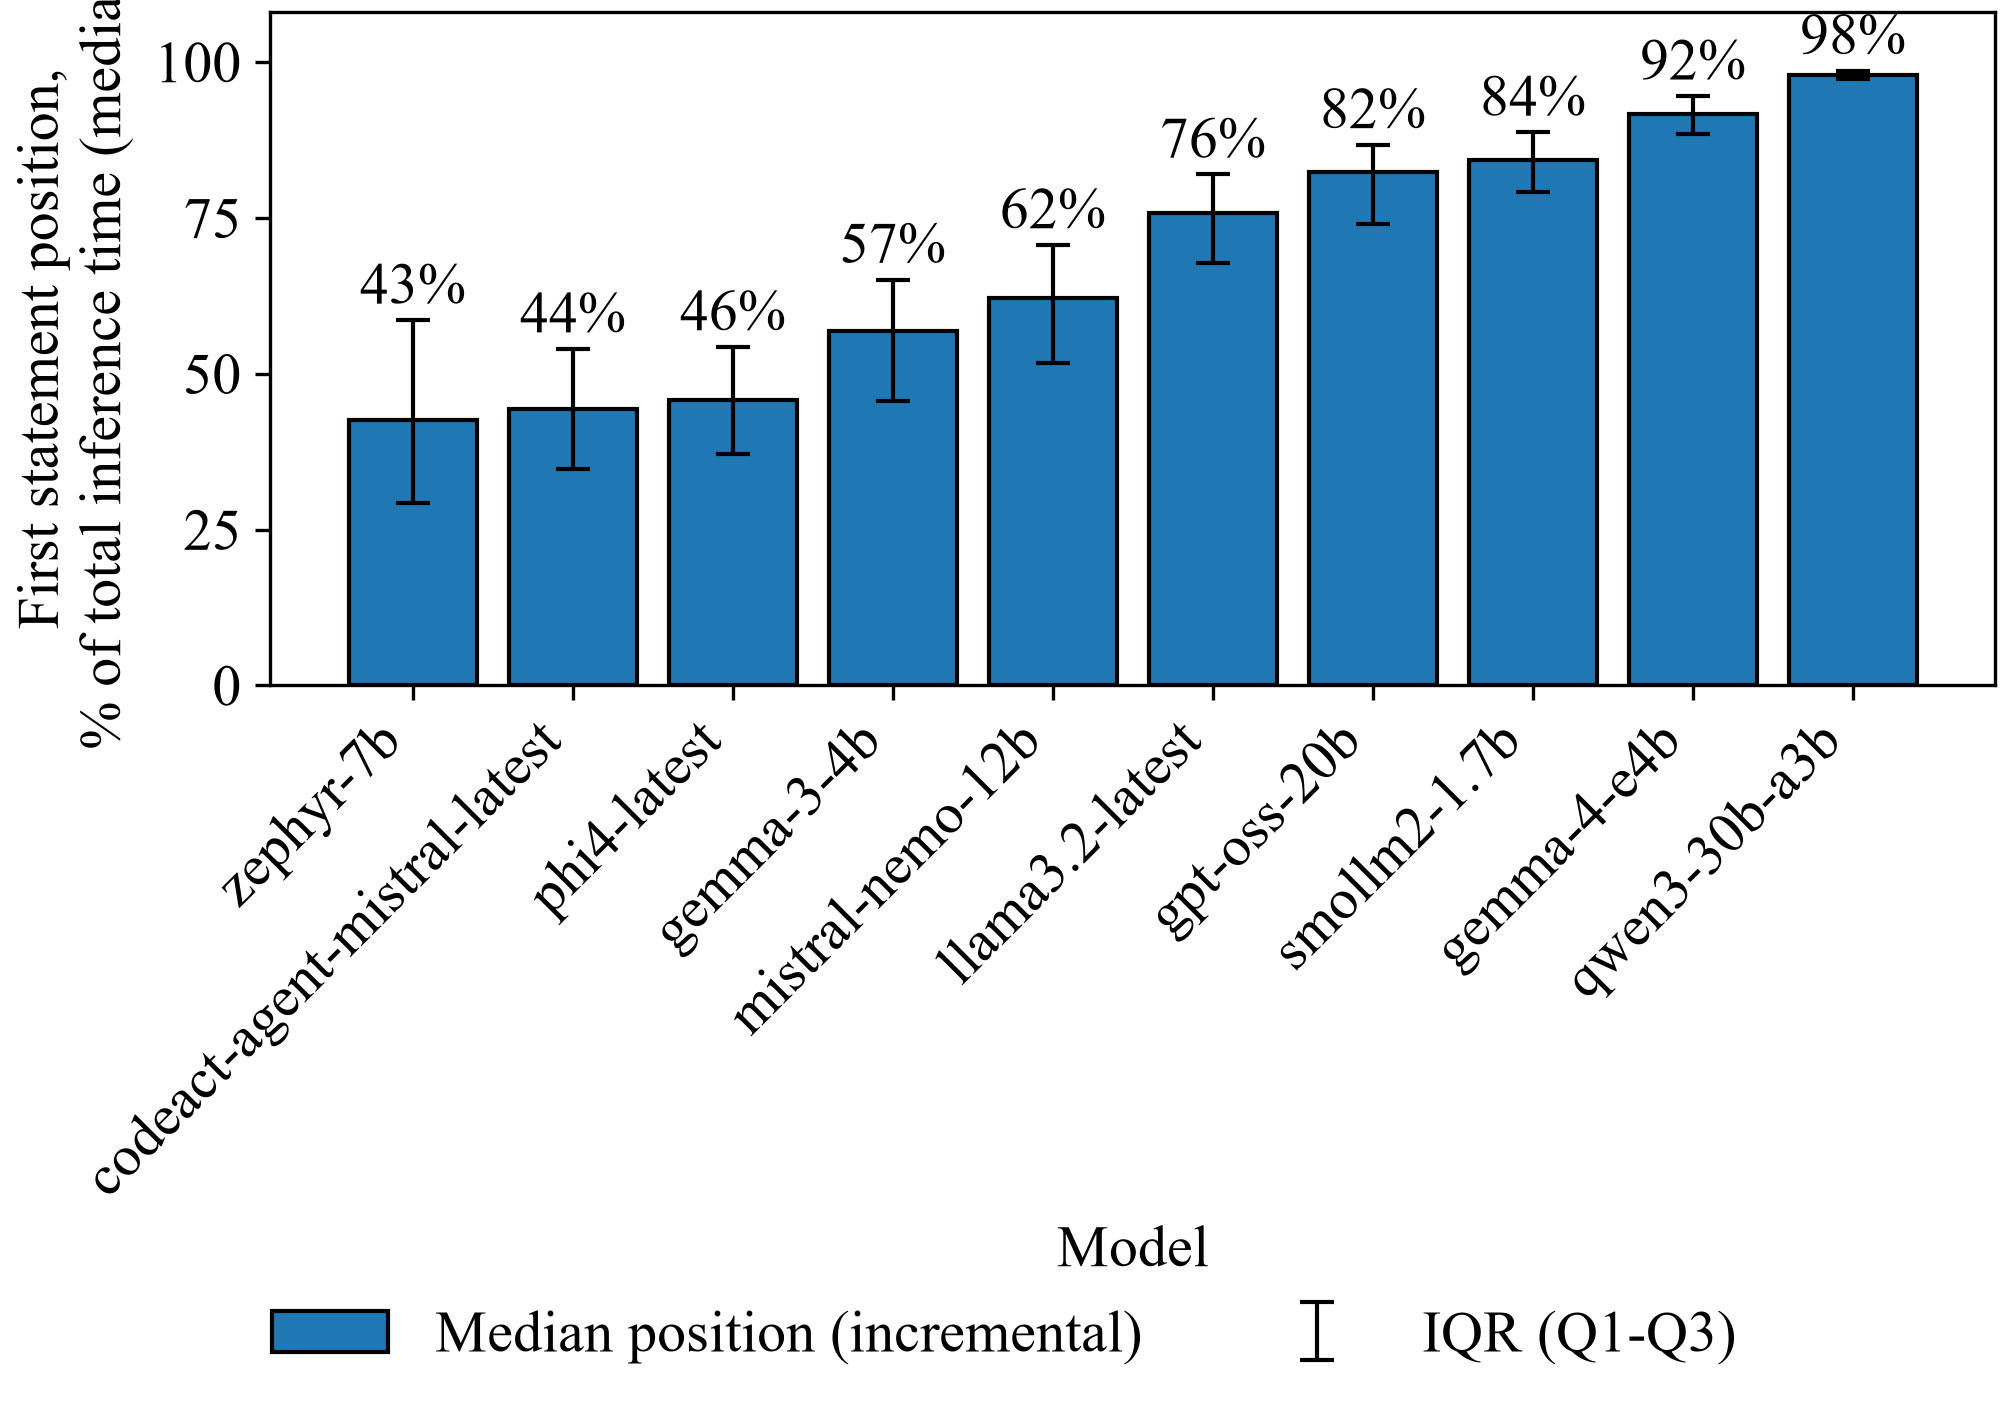
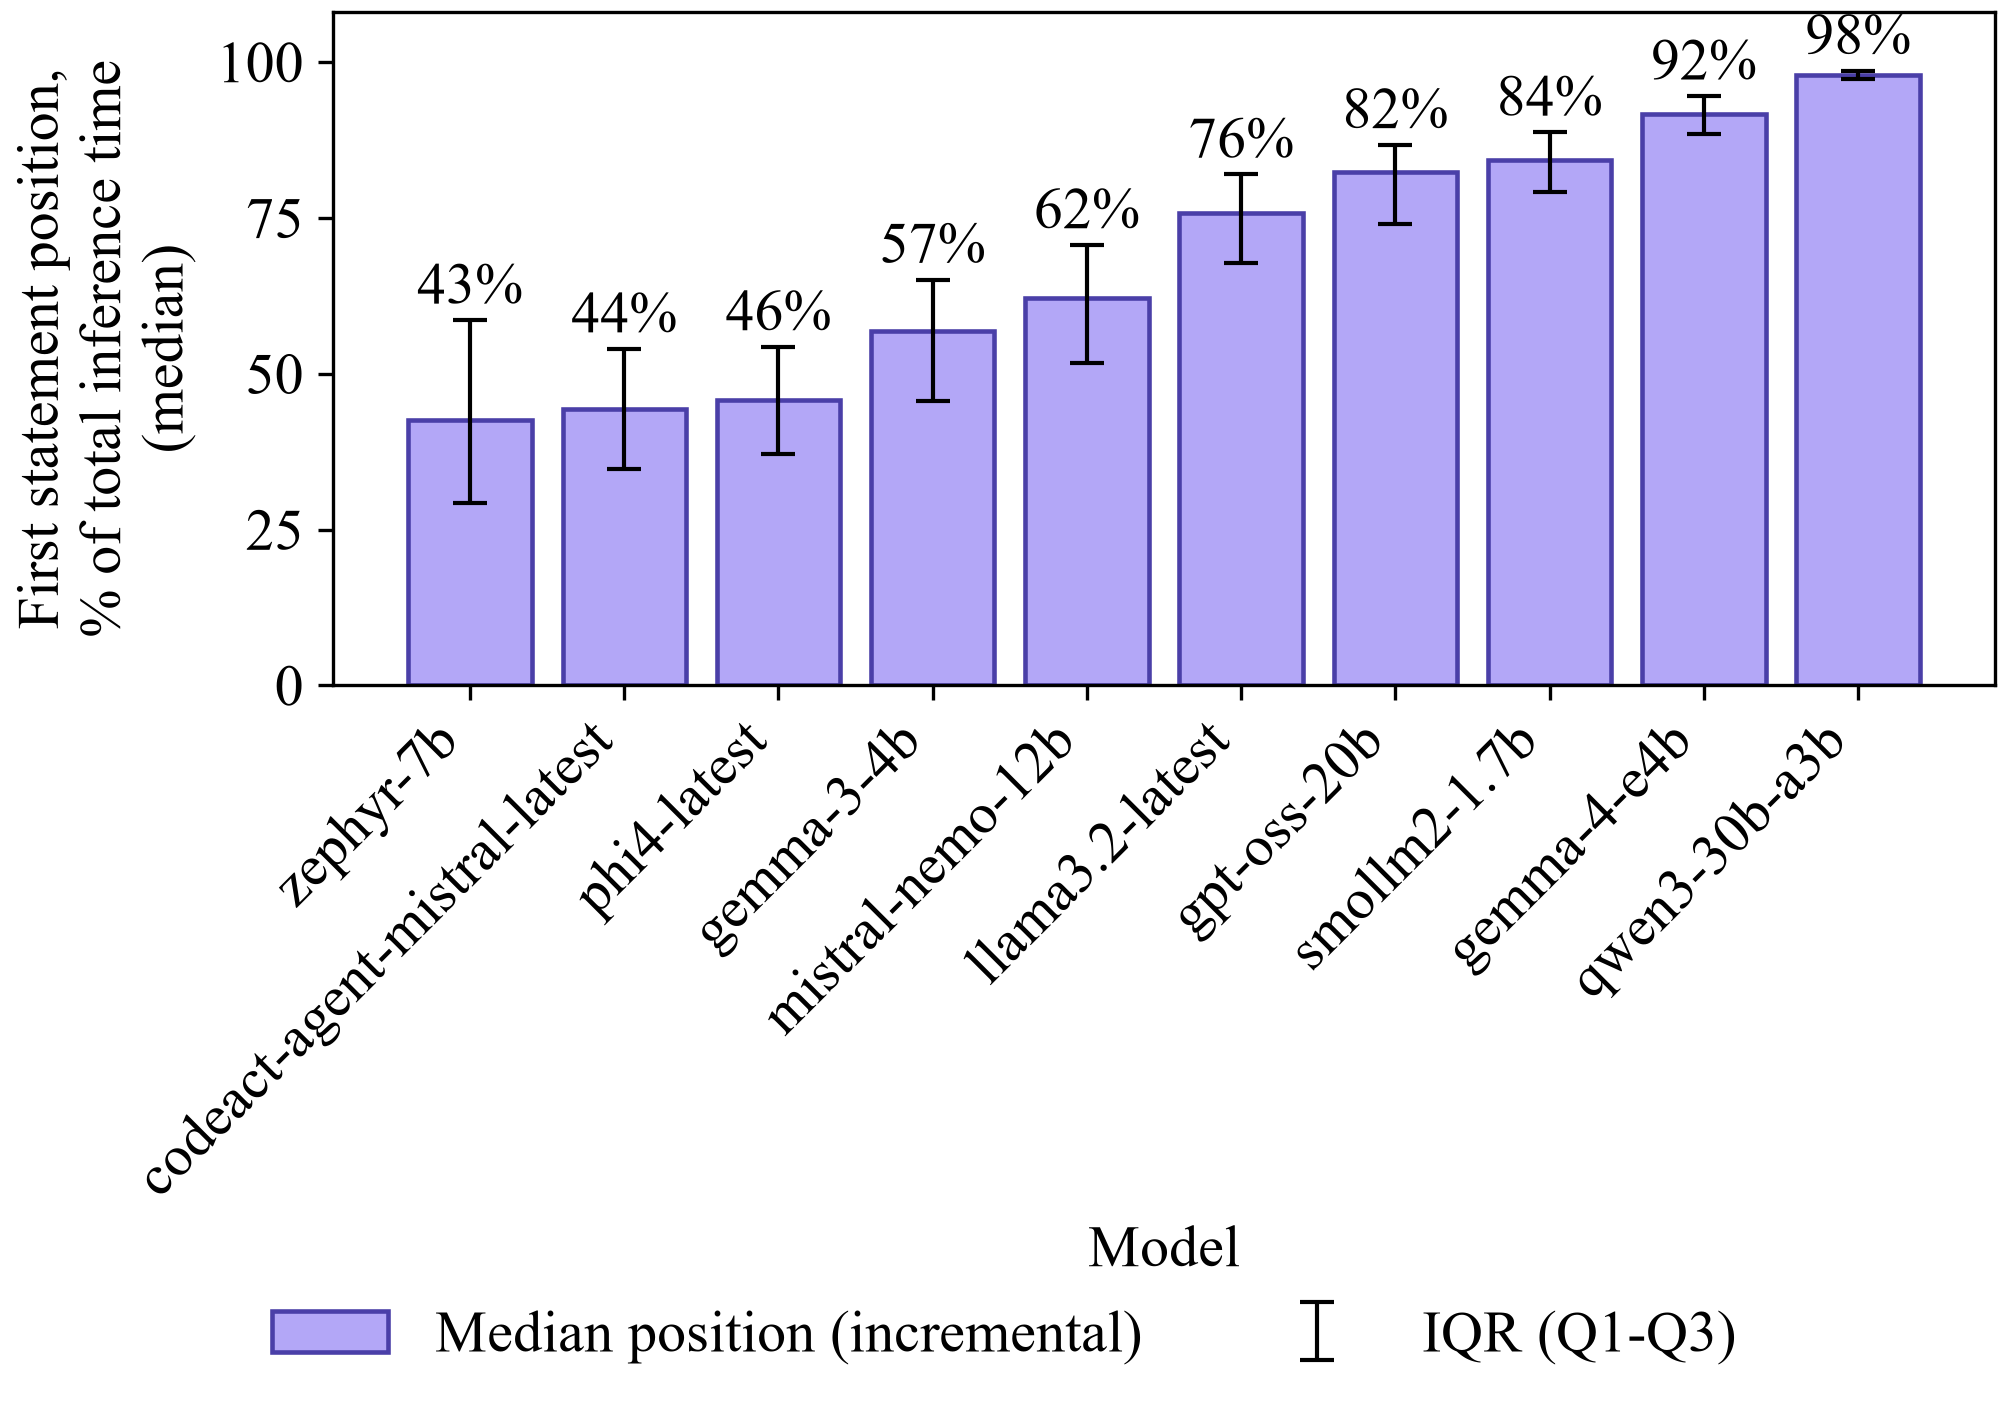
script update

diff --git a/misc/mbpp/scripts/build_artifacts.py b/misc/mbpp/scripts/build_artifacts.py
@@ -32,7 +32,14 @@ MM_PER_IN = 25.4
 PAGE_WIDTH_MM = 170.0  # standard figure width; every figure shares it
 
 STRATEGIES = ["incremental", "sequential"]
-PALETTE = {"incremental": "tab:blue", "sequential": "tab:orange"}
+
+COLOR_INFERENCE = "#B3A7F7"  # light periwinkle -- LLM inference (token generation)
+COLOR_EXECUTION = "#FFC488"  # light apricot -- code execution
+COLOR_OUTLINE = "#4A3FA8"  # indigo -- 1.1pt stroke on every bar
+COLOR_INK = "#000000"  # black -- text, leader lines, arrows, axes
+BAR_OUTLINE_WIDTH = 1.1
+
+PALETTE = {"incremental": COLOR_INFERENCE, "sequential": COLOR_EXECUTION}
 
 
 def _round_or_na(value: float, decimals: int) -> object:
@@ -110,6 +117,12 @@ def _configure_matplotlib() -> None:
             "savefig.facecolor": "white",
             "axes.facecolor": "white",
             "savefig.transparent": False,
+            "text.color": COLOR_INK,
+            "axes.labelcolor": COLOR_INK,
+            "axes.edgecolor": COLOR_INK,
+            "xtick.color": COLOR_INK,
+            "ytick.color": COLOR_INK,
+            "legend.labelcolor": COLOR_INK,
         }
     )
 
@@ -526,55 +539,161 @@ def build_significance_table(
     return table
 
 
-def _paired_token_chunks(df: pd.DataFrame, model_label: str) -> pd.DataFrame:
-    """Pair per-task `ClientCompletionChunks` and the incremental arm's `EarlyExit` flag.
+def _estimate_missing_output_tokens(df: pd.DataFrame) -> pd.DataFrame:
+    """Back-fill token counts for incremental runs that aborted mid-stream.
 
-    `ClientCompletionChunks` (not `OutputTokens`) is what token-savings has to
-    be computed from: the provider's final usage chunk never arrives when the
-    stream is aborted mid-block, so every early-exited row has `OutputTokens`
-    `NaN` -- exactly the rows this comparison needs.
+    An incremental run that hits `EarlyExit` breaks out of the SSE loop
+    (`execution.py`'s `if driver.has_error: ... break`) before the
+    provider's trailing usage-only chunk arrives, so `InputTokens`/
+    `OutputTokens`/`TotalTokens` are `NaN` for that row -- confirmed
+    empirically to be the *sole* driver of every incremental/sequential
+    token-total mismatch (per-row values agree exactly on every row where
+    both strategies have one). Timeout ("stalled") rows are excluded on
+    both sides: a cancelled stream has no stable tokens-per-chunk rate to
+    extrapolate from, on either arm.
+
+    For each qualifying row, an estimate is derived from the paired
+    sequential run at the same `DatasetRow` (which drains its stream to
+    completion, so it almost never misses usage):
+
+      - `InputTokens`: sequential's own value, taken verbatim. Not really a
+        *statistical* estimate -- input tokens are confirmed identical
+        between strategies for the same row whenever both are measured, so
+        this is a safe direct substitution rather than an extrapolation.
+      - `OutputTokens`: sequential's own tokens-per-chunk rate
+        (`OutputTokens / ClientCompletionChunks`) applied to
+        *incremental's own* `ClientCompletionChunks` -- the one usage-like
+        figure incremental always has, since it's counted client-side off
+        the delta stream rather than read from the provider's final chunk.
+      - `TotalTokens`: the sum of the two estimates above.
 
     Args:
         df: Combined result rows, as returned by `load_results()`.
+
+    Returns:
+        A copy of `df` with `InputTokens`/`OutputTokens`/`TotalTokens`
+        back-filled for qualifying rows, plus a new boolean
+        `TokensEstimated` column flagging exactly which rows were filled
+        this way (`False` everywhere else, including every sequential row).
+    """
+    out = df.copy()
+    out["TokensEstimated"] = False
+
+    sequential = out.loc[out["Strategy"] == "sequential"].set_index(
+        ["ModelLabel", "DatasetRow"]
+    )
+
+    candidates = out.index[
+        (out["Strategy"] == "incremental")
+        & out["EarlyExit"]
+        & ~out["HasTimedOut"]
+        & out["OutputTokens"].isna()
+    ]
+
+    for idx in candidates:
+        key = (out.at[idx, "ModelLabel"], out.at[idx, "DatasetRow"])
+        if key not in sequential.index:
+            continue
+        seq_row = sequential.loc[key]
+        if (
+            seq_row["HasTimedOut"]
+            or pd.isna(seq_row["OutputTokens"])
+            or not seq_row["ClientCompletionChunks"]
+        ):
+            continue
+        rate = seq_row["OutputTokens"] / seq_row["ClientCompletionChunks"]
+        est_input = seq_row["InputTokens"]
+        est_output = out.at[idx, "ClientCompletionChunks"] * rate
+        out.at[idx, "InputTokens"] = est_input
+        out.at[idx, "OutputTokens"] = est_output
+        out.at[idx, "TotalTokens"] = est_input + est_output
+        out.at[idx, "TokensEstimated"] = True
+
+    return out
+
+
+def _paired_token_rows(df: pd.DataFrame) -> pd.DataFrame:
+    """Restrict to (Model, DatasetRow) pairs where both strategies have token counts.
+
+    A pair can end up with just one side missing `InputTokens`/`OutputTokens`
+    for more than one reason -- a timeout on either arm (which never gets a
+    usage chunk on the side that stalled), or a non-timeout harness/exception
+    path that also left usage uncaptured but falls outside
+    `_estimate_missing_output_tokens()`'s early-exit-only scope (e.g. an
+    error surfacing from `StreamDriver.afinish()` after the main loop already
+    ran to completion without ever setting `EarlyExit`). Whatever the cause,
+    keeping the *other* side's real value would let it contribute to that
+    strategy's own marginal sum with no counterpart on the other strategy --
+    breaking the "input tokens are identical between strategies for the same
+    task" invariant this dataset otherwise guarantees, and silently skewing
+    one strategy's totals relative to the other's. So an incomplete pair is
+    dropped for *both* strategies, not patched on just the side that's short.
+
+    Args:
+        df: Combined result rows, already run through
+            `_estimate_missing_output_tokens()`.
+
+    Returns:
+        A copy of `df` containing only rows for (`ModelLabel`, `DatasetRow`)
+        pairs where both strategies have a non-null `InputTokens` and
+        `OutputTokens` -- real or estimated.
+    """
+    complete = df["InputTokens"].notna() & df["OutputTokens"].notna()
+    complete_pair = complete.groupby(
+        [df["ModelLabel"], df["DatasetRow"]]
+    ).transform("all")
+    return df.loc[complete_pair].copy()
+
+
+def _paired_output_tokens(df: pd.DataFrame, model_label: str) -> pd.DataFrame:
+    """Pair per-task `OutputTokens` (post-estimation) and the incremental arm's flags.
+
+    Args:
+        df: Combined result rows, already run through
+            `_estimate_missing_output_tokens()`.
         model_label: The `ModelLabel` to restrict to.
 
     Returns:
-        One row per `DatasetRow` with `incremental_chunks`,
-        `sequential_chunks`, and `early_exit`, for tasks where both
-        strategies ran.
+        One row per `DatasetRow` with `incremental_tokens`,
+        `sequential_tokens`, `early_exit`, and `estimated` (whether
+        incremental's value for that row was back-filled rather than
+        measured), restricted to `_paired_token_rows()`'s complete-pair
+        subset -- both strategies have a value, real or estimated, and
+        neither timed out.
     """
-    subset = df.loc[df["ModelLabel"] == model_label]
-    chunks = subset.pivot_table(
-        index="DatasetRow",
-        columns="Strategy",
-        values="ClientCompletionChunks",
-        aggfunc="first",
+    subset = _paired_token_rows(df.loc[df["ModelLabel"] == model_label])
+    tokens = subset.pivot_table(
+        index="DatasetRow", columns="Strategy", values="OutputTokens", aggfunc="first"
     ).reindex(columns=["incremental", "sequential"])
-    chunks = chunks.dropna(subset=["incremental", "sequential"])
-    chunks.columns = ["incremental_chunks", "sequential_chunks"]
+    tokens.columns = ["incremental_tokens", "sequential_tokens"]
 
-    early_exit = subset.loc[subset["Strategy"] == "incremental"].set_index(
+    incremental_rows = subset.loc[subset["Strategy"] == "incremental"].set_index(
         "DatasetRow"
-    )["EarlyExit"]
-    chunks["early_exit"] = chunks.index.map(early_exit).fillna(False)
-    return chunks
+    )
+    tokens["early_exit"] = tokens.index.map(incremental_rows["EarlyExit"]).fillna(
+        False
+    )
+    tokens["estimated"] = tokens.index.map(
+        incremental_rows["TokensEstimated"]
+    ).fillna(False)
+    return tokens
 
 
-def _savings_pct(paired: pd.DataFrame) -> float:
-    """Compute the % of output tokens (by `ClientCompletionChunks`) incremental saved.
+def _token_savings_pct(paired: pd.DataFrame) -> float:
+    """Compute the % of output tokens incremental saved, from paired real/estimated counts.
 
     Args:
-        paired: Rows shaped like `_paired_token_chunks()`'s output, or a
+        paired: Rows shaped like `_paired_output_tokens()`'s output, or a
             subset of them (e.g. restricted to early-exited tasks).
 
     Returns:
         `(sequential_total - incremental_total) / sequential_total * 100`, or
         `NaN` if `sequential_total` is 0 -- nothing to compare savings against.
     """
-    sequential_total = paired["sequential_chunks"].sum()
+    sequential_total = paired["sequential_tokens"].sum()
     if sequential_total == 0:
         return float("nan")
-    incremental_total = paired["incremental_chunks"].sum()
+    incremental_total = paired["incremental_tokens"].sum()
     return (sequential_total - incremental_total) / sequential_total * 100
 
 
@@ -589,11 +708,41 @@ def build_token_usage(
     rather than collapsing to 0, which would be indistinguishable from a
     model that demonstrably used no extended thinking.
 
-    The sibling savings table reports the % of output tokens (by
-    `ClientCompletionChunks`, not `OutputTokens` -- see `_paired_token_chunks`)
-    the incremental arm saved by aborting early, both overall and restricted
-    to just the runs that actually aborted, since the whole-set number is
-    diluted by runs that had no tail to skip.
+    Every aggregate here is computed over
+    `_paired_token_rows(_estimate_missing_output_tokens(df))`, not `df`
+    itself, for two reasons stacked on top of each other:
+
+      - An incremental run that aborted mid-stream (`EarlyExit`) never
+        received the provider's usage chunk, so its raw `InputTokens`/
+        `OutputTokens`/`TotalTokens` are `NaN` -- `_estimate_missing_output_tokens`
+        back-fills those from the paired sequential run.
+      - Some rows still end up missing a value on just one side even after
+        that (a timeout, or a non-timeout harness error outside the
+        early-exit-only estimate) -- `_paired_token_rows` drops *both*
+        strategies' rows for any such (Model, DatasetRow) pair, rather than
+        letting the complete side's real value contribute to its own
+        strategy's sum with no counterpart on the other strategy. Without
+        this, `Input Tokens Sum` (which must be identical between strategies
+        for the same task) can end up mismatched between Incremental and
+        Sequential purely because of which rows each one happened to drop.
+
+    So `N` reflects the paired, complete-data row count for that (Model,
+    Strategy) -- identical between Incremental and Sequential for a given
+    model, but possibly below 113 when a model had any unrecoverable rows on
+    either arm -- not the raw per-strategy row count. Both output tables are
+    therefore *estimated* token counts wherever a model had any early exits,
+    over a possibly-reduced row set -- not pure, complete API-reported usage
+    -- which is why they're written under `..._estimated.csv` names and
+    carry an `Estimated Rows`/`Estimated Runs` column reporting how many of
+    the paired rows were filled in rather than measured. `ReasoningTokens`
+    is left alone (never estimated, never used to filter pairs): there's no
+    equivalent rate to extrapolate it from.
+
+    The sibling savings table reports the % of output tokens the incremental
+    arm saved by aborting early (using the post-estimation `OutputTokens`,
+    via `_paired_output_tokens`/`_token_savings_pct`), both overall and
+    restricted to just the runs that actually aborted, since the whole-set
+    number is diluted by runs that had no tail to skip.
 
     Args:
         df: Combined result rows, as returned by `load_results()`.
@@ -604,9 +753,13 @@ def build_token_usage(
         (`ModelLabel`, `Strategy`) for `token_usage`, one row per
         `ModelLabel` for `token_saving`.
     """
-    usage = df.groupby(["ModelLabel", "Strategy"], sort=False).agg(
+    estimated = _estimate_missing_output_tokens(df)
+    paired_rows = _paired_token_rows(estimated)
+
+    usage = paired_rows.groupby(["ModelLabel", "Strategy"], sort=False).agg(
         Count=("ErrorOccurred", "size"),
         EarlyExits=("EarlyExit", "sum"),
+        EstimatedRows=("TokensEstimated", "sum"),
         InputTokens_Mean=("InputTokens", "mean"),
         InputTokens_Sum=("InputTokens", "sum"),
         OutputTokens_Mean=("OutputTokens", "mean"),
@@ -633,12 +786,13 @@ def build_token_usage(
             "ModelLabel": "Model",
             "Count": "N",
             "EarlyExits": "Early Exits",
+            "EstimatedRows": "Estimated Rows",
             "InputTokens_Mean": "Input Tokens Mean",
             "InputTokens_Sum": "Input Tokens Sum",
-            "OutputTokens_Mean": "Output Tokens Mean",
-            "OutputTokens_Sum": "Output Tokens Sum",
-            "TotalTokens_Mean": "Total Tokens Mean",
-            "TotalTokens_Sum": "Total Tokens Sum",
+            "OutputTokens_Mean": "Output Tokens Mean (Est.)",
+            "OutputTokens_Sum": "Output Tokens Sum (Est.)",
+            "TotalTokens_Mean": "Total Tokens Mean (Est.)",
+            "TotalTokens_Sum": "Total Tokens Sum (Est.)",
             "ReasoningTokens_Mean": "Reasoning Tokens Mean",
             "ReasoningTokens_Sum": "Reasoning Tokens Sum",
         }
@@ -646,15 +800,16 @@ def build_token_usage(
 
     savings_rows: list[dict[str, object]] = []
     for model_label in df["ModelLabel"].unique():
-        paired = _paired_token_chunks(df, model_label)
+        paired = _paired_output_tokens(paired_rows, model_label)
         aborted = paired[paired["early_exit"]]
         savings_rows.append(
             {
                 "ModelLabel": model_label,
                 "PairedRuns": len(paired),
                 "AbortedRuns": len(aborted),
-                "OverallSavingsPct": _savings_pct(paired),
-                "AbortedSavingsPct": _savings_pct(aborted)
+                "EstimatedRuns": int(paired["estimated"].sum()),
+                "OverallSavingsPct": _token_savings_pct(paired),
+                "AbortedSavingsPct": _token_savings_pct(aborted)
                 if len(aborted)
                 else float("nan"),
             }
@@ -671,14 +826,15 @@ def build_token_usage(
             "ModelLabel": "Model",
             "PairedRuns": "Paired Runs",
             "AbortedRuns": "Aborted Runs",
-            "OverallSavingsPct": "Overall Savings (%)",
-            "AbortedSavingsPct": "Aborted-Run Savings (%)",
+            "EstimatedRuns": "Estimated Runs",
+            "OverallSavingsPct": "Overall Savings (%, Est.)",
+            "AbortedSavingsPct": "Aborted-Run Savings (%, Est.)",
         }
     )
 
     tables_dir.mkdir(parents=True, exist_ok=True)
-    usage.to_csv(tables_dir / "token_usage.csv", index=False)
-    saving.to_csv(tables_dir / "token_saving.csv", index=False)
+    usage.to_csv(tables_dir / "token_usage_estimated.csv", index=False)
+    saving.to_csv(tables_dir / "token_saving_estimated.csv", index=False)
     return usage, saving
 
 
@@ -895,13 +1051,15 @@ def _bar_with_iqr(
     q1_arr = np.asarray(q1s, dtype=float)
     q3_arr = np.asarray(q3s, dtype=float)
 
-    bars = ax.bar(x, median_arr, color=color, edgecolor="black")
+    bars = ax.bar(
+        x, median_arr, color=color, edgecolor=COLOR_OUTLINE, linewidth=BAR_OUTLINE_WIDTH
+    )
     error_container = ax.errorbar(
         x,
         median_arr,
         yerr=[median_arr - q1_arr, q3_arr - median_arr],
         fmt="none",
-        ecolor="black",
+        ecolor=COLOR_INK,
         capsize=4,
         linewidth=1,
     )
@@ -973,7 +1131,7 @@ def build_speedup_ratio_figure(df: pd.DataFrame, images_dir: Path = IMAGES_DIR) 
         annotate=lambda v: f"{v:.2f}×",
     )
 
-    reference_line = ax.axhline(1.0, color="black", linestyle="--", linewidth=0.8)
+    reference_line = ax.axhline(1.0, color=COLOR_INK, linestyle="--", linewidth=0.8)
 
     ax.set_xticks(x)
     ax.set_xticklabels(labels, rotation=45, ha="right")
@@ -1042,7 +1200,7 @@ def build_first_statement_fraction_figure(
     ax.set_xticks(x)
     ax.set_xticklabels(labels, rotation=45, ha="right")
     ax.set_xlabel("Model")
-    ax.set_ylabel("First statement position,\n% of total inference time (median)")
+    ax.set_ylabel("First statement position,\n% of total inference time\n(median)")
     ax.set_ylim(0, 108)
 
     _bottom_legend(
